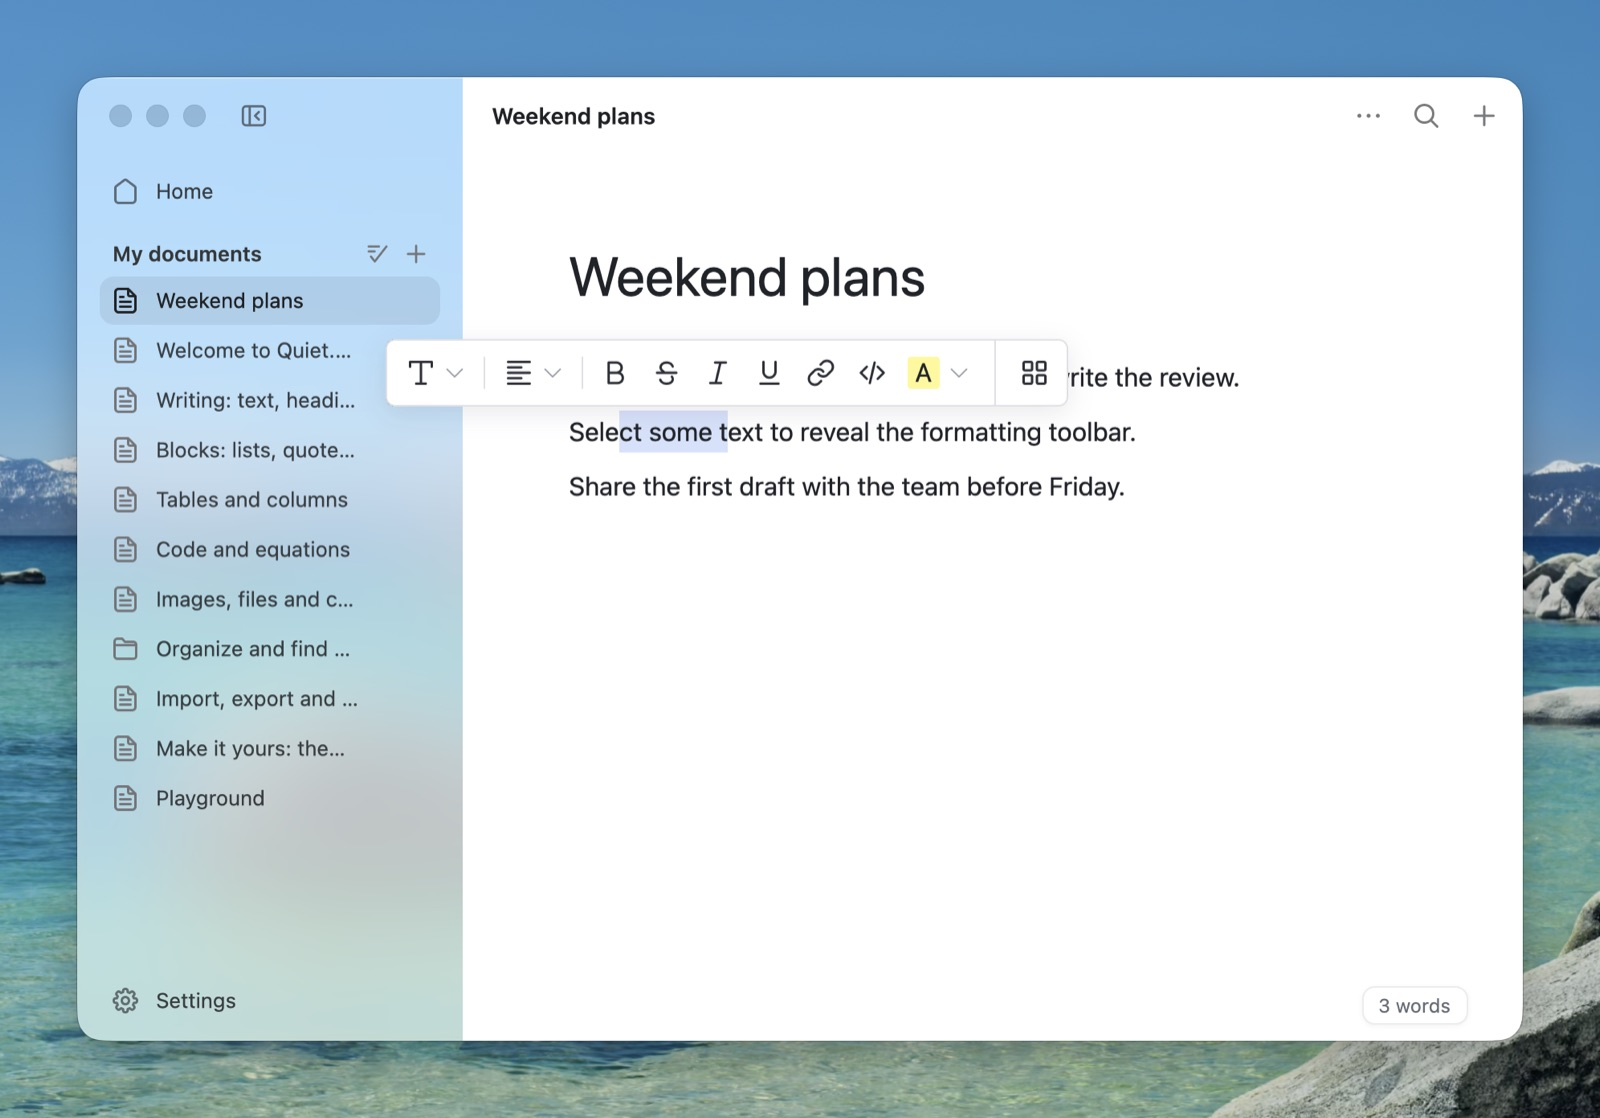
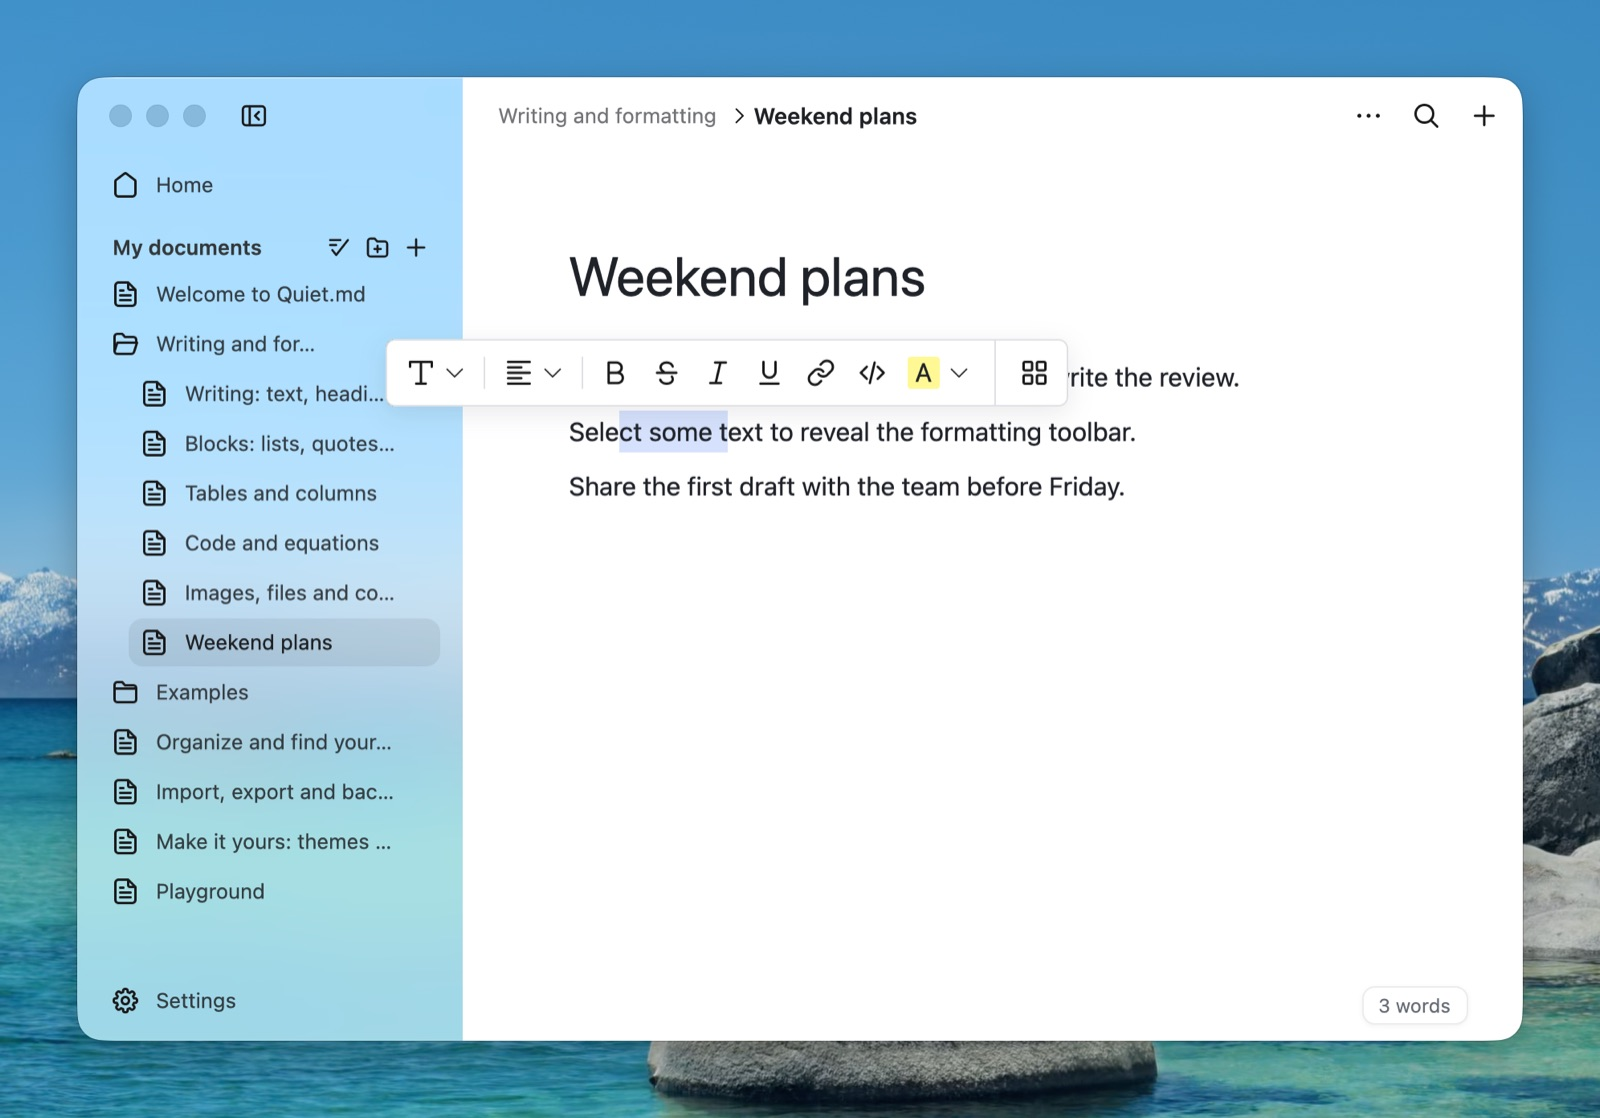
feat(folders): guides for folders, one sibling order, tests updated
- One order everywhere (`Meta::place`): pages never placed by hand first,
  most recently changed first, then the placed ones; ties by id. The
  sidebar, the numbers a drop writes and Home's manual order share it, and
  starting manual order freezes what the sidebar shows instead of moving new
  pages to the end. Home now defaults to manual order.
- Migration numbers each new folder's contents in their old order (the
  page that became the folder first, then its children oldest first), with
  a test.
- Guides: folders replace child pages in Organize, the child-page list
  section is gone from Blocks, and the library is built with two folders
  near the top (Writing and formatting, Examples) in a fixed order at
  FORMAT 2. Screenshots retaken; Windows wording for ⌥.
- Home thumbnails show a child-page list as the open document does (the
  other pages in its folder).
- Tests follow the folder model: the slash menu lost 子页面列表, a newer
  library is refused rather than warned about, and the trash round trip
  uses a folder.

diff --git a/crates/core/src/folders.rs b/crates/core/src/folders.rs
@@ -31,6 +31,15 @@ impl Store {
                 if let Some(folder) = mapping.get(id) { meta.parent = Some(folder.clone()); meta.order = 1; }
                 else if let Some(folder) = meta.parent.as_ref().and_then(|p| mapping.get(p)) { meta.parent = Some(folder.clone()); }
             }
+            // Number each new folder's contents in their old order (the page that
+            // became the folder first, then its children oldest first), so the
+            // tree reads as it did before.
+            for (doc, folder) in &mapping {
+                let mut kids: Vec<String> = self.index.iter().filter(|(_, m)| m.parent.as_ref() == Some(folder)).map(|(k, _)| k.clone()).collect();
+                let old = |k: &String| { let m = &self.index[k]; (k != doc, if m.order > 0 { m.order } else { m.created * 1000 }, k.clone()) };
+                kids.sort_by_key(old);
+                for (i, k) in kids.iter().enumerate() { if let Some(m) = self.index.get_mut(k) { m.order = i as u64 + 1; m.root_order = None; } }
+            }
             if let Err(e) = self.save_index() { self.index = previous; return Err(e); }
         }
         write_atomic(&self.root.join("format.json"), &serde_json::to_vec_pretty(&FormatMarker { format: FORMAT })?)?;
@@ -66,16 +75,16 @@ impl Store {
         let mut groups: HashMap<Option<String>, Vec<String>> = HashMap::new();
         for (id, m) in &self.index { groups.entry(m.parent.clone()).or_default().push(id.clone()); }
         let mut changed = false;
+        // Freeze the order the sidebar shows (`Meta::place`): pages not yet placed
+        // keep their spot at the top instead of dropping to the end.
         for (parent, mut ids) in groups {
-            let rank = |id: &String| { let m = &self.index[id]; if parent.is_none() { m.root_order.unwrap_or(0) } else { m.order } };
-            let offset = if initialized { ids.iter().map(&rank).max().unwrap_or(0) } else { 0 };
-            if initialized { ids.retain(|id| rank(id) == 0); }
-            changed |= !ids.is_empty();
-            ids.sort_by(|a, b| self.index[b].modified.cmp(&self.index[a].modified).then(a.cmp(b)));
+            ids.sort_by(|a, b| (self.index[a].place(), a).cmp(&(self.index[b].place(), b)));
+            if initialized && ids.iter().all(|id| self.index[id].place().0) { continue; }
+            changed = true;
             for (i, id) in ids.iter().enumerate() {
                 let m = self.index.get_mut(id).unwrap();
-                if parent.is_none() { m.root_order = Some(offset + i as u64 + 1); }
-                else { m.order = offset + i as u64 + 1; m.root_order = None; }
+                if parent.is_none() { m.root_order = Some(i as u64 + 1); }
+                else { m.order = i as u64 + 1; m.root_order = None; }
             }
         }
         if !changed && initialized { return Ok(()); }
@@ -94,13 +103,9 @@ impl Store {
             if anchor == id { return Ok(()); }
         }
         let mut siblings: Vec<String> = self.index.iter().filter(|(k, m)| self.index_has(k) && m.parent.as_deref() == parent).map(|(k, _)| k.clone()).collect();
-        // The sidebar's order (`Tree::new`), ties broken by id like there, so the
-        // numbers written here match the order the drop was made in.
-        siblings.sort_by(|ka, kb| {
-            let (a, b) = (&self.index[ka], &self.index[kb]);
-            if parent.is_some() { (a.sibling_key(), ka).cmp(&(b.sibling_key(), kb)) }
-            else { (a.root_order.unwrap_or(0), std::cmp::Reverse(a.modified), ka).cmp(&(b.root_order.unwrap_or(0), std::cmp::Reverse(b.modified), kb)) }
-        });
+        // The sidebar's order (`Meta::place`, ties by id), so the numbers written
+        // here match the order the drop was made in.
+        siblings.sort_by(|ka, kb| (self.index[ka].place(), ka).cmp(&(self.index[kb].place(), kb)));
         siblings.retain(|key| key != id);
         let pos = before.and_then(|key| siblings.iter().position(|x| x == key)).unwrap_or(siblings.len());
         siblings.insert(pos, id.to_string());

diff --git a/crates/core/src/store.rs b/crates/core/src/store.rs
@@ -93,9 +93,13 @@ fn is_zero(n: &u64) -> bool {
 }
 
 impl Meta {
-    /// Sort key among siblings: oldest first, moved pages last.
-    pub fn sibling_key(&self) -> u64 {
-        if self.order > 0 { self.order } else { self.created * 1000 }
+    /// Where a page or folder sits among its siblings: the sidebar's order, the
+    /// numbers a drop writes and Home's manual order all use it. Those never
+    /// placed by hand come first, most recently changed first; then the placed
+    /// ones in their order. Callers break remaining ties by id.
+    pub fn place(&self) -> (bool, u64, std::cmp::Reverse<u64>) {
+        let placed = if self.parent.is_none() { self.root_order.unwrap_or(0) } else { self.order };
+        (placed > 0, placed, std::cmp::Reverse(self.modified))
     }
 }
 
@@ -964,25 +968,61 @@ mod tests {
     }
 
     #[test]
-    fn newer_format_is_reported() {
+    fn pages_with_children_become_folders_in_their_old_order() {
+        // A FORMAT 1 library: 父 holds 子一 (older) and 子二 (newer).
+        let lib = Lib::new("migrate");
+        let mut s = lib.open();
+        let p = s.create_from(&doc("父")).unwrap();
+        let a = s.create_from(&doc("子一")).unwrap();
+        let b = s.create_from(&doc("子二")).unwrap();
+        drop(s);
+        let path = lib.0.join("index.json");
+        let mut index: HashMap<String, Meta> = serde_json::from_slice(&std::fs::read(&path).unwrap()).unwrap();
+        for (k, created) in [(&a, 100), (&b, 200)] {
+            let m = index.get_mut(k).unwrap();
+            m.parent = Some(p.clone());
+            m.created = created;
+            m.order = 0;
+        }
+        std::fs::write(&path, serde_json::to_vec(&index).unwrap()).unwrap();
+        std::fs::write(lib.0.join("format.json"), b"{\"format\": 1}").unwrap();
+
+        let mut s = lib.open();
+        let list = s.list();
+        let folder = list.iter().find(|e| e.meta.folder.as_deref() == Some("父")).expect("父 became a folder");
+        assert!(folder.meta.parent.is_none());
+        let mut inside: Vec<&Entry> = list.iter().filter(|e| e.meta.parent.as_deref() == Some(folder.id.as_str())).collect();
+        inside.sort_by_key(|e| (e.meta.place(), e.id.clone()));
+        let titles: Vec<&str> = inside.iter().map(|e| e.title.as_str()).collect();
+        assert_eq!(titles, ["父", "子一", "子二"], "the page first, then its children oldest first");
+        assert!(lib.0.join("index.before-folders.json").exists());
+        assert!(String::from_utf8(std::fs::read(lib.0.join("format.json")).unwrap()).unwrap().contains(&FORMAT.to_string()));
+    }
+
+    #[test]
+    fn newer_format_is_refused() {
+        // A newer build may have changed what the index means (folders, FORMAT 2):
+        // opening it here could misread and then rewrite it, so it is refused.
         let lib = Lib::new("format");
         drop(lib.open());
         std::fs::write(lib.0.join("format.json"), format!("{{\"format\": {}}}", FORMAT + 1)).unwrap();
-        assert_eq!(lib.open().warnings.len(), 1);
+        let err = Store::open_at(lib.0.clone()).err().expect("a newer library must not open");
+        assert!(err.to_string().contains("更新版本"));
     }
 
     #[test]
     fn trash_round_trip() {
         let lib = Lib::new("trash");
         let mut s = lib.open();
-        let a = s.create_from(&doc("父")).unwrap();
+        // Only folders hold pages: a folder goes to the trash with what is in it.
+        let a = s.create_folder("父", None).unwrap();
         let b = s.create_from(&doc("子")).unwrap();
         s.set_parent(&b, Some(&a)).unwrap();
         s.delete(&b, Some(&a)).unwrap();
         s.delete(&a, None).unwrap();
         assert!(s.list().is_empty());
         let t = s.list_trash();
-        assert_eq!(t.len(), 1, "the child rides along with its parent");
+        assert_eq!(t.len(), 1, "the page rides along with its folder");
         assert_eq!(t[0].title, "父");
         let mut s = lib.open();
         assert!(!s.restore(&a).unwrap());

diff --git a/shared-mock/guides/build.py b/shared-mock/guides/build.py
@@ -17,24 +17,31 @@ from pathlib import Path
 here = Path(__file__).resolve().parent
 out = Path(sys.argv[1]).resolve()
 NS = uuid.UUID("6f7c1e9a-9d0b-4a51-8c7e-2a1d3b4c5e6f")
-# file stem -> (key, parent key, pinned)
+# Folders in the guide library: key -> title. A folder has no file, only an
+# index entry.
+FOLDERS = {"writing-guides": "Writing and formatting", "examples": "Examples"}
+# The top level, in order; every entry gets its place, so the sidebar and
+# Home's manual order (the default) read the same.
+TOP = ["welcome", "writing-guides", "examples", "organize", "data", "personalize", "practice"]
+# file stem -> (key, parent key, pinned); a parent is a key of FOLDERS
 KEYS = {
     "01-welcome": ("welcome", None, False),
-    "02-writing": ("writing", None, False),
-    "03-blocks": ("blocks", None, False),
-    "04-tables": ("tables", None, False),
-    "05-code": ("code", None, False),
-    "06-media": ("media", None, False),
+    "02-writing": ("writing", "writing-guides", False),
+    "03-blocks": ("blocks", "writing-guides", False),
+    "04-tables": ("tables", "writing-guides", False),
+    "05-code": ("code", "writing-guides", False),
+    "06-media": ("media", "writing-guides", False),
     "07-organize": ("organize", None, False),
-    "07a-reading-list": ("reading-list", "organize", False),
-    "07b-weekly": ("weekly", "organize", False),
+    "07a-reading-list": ("reading-list", "examples", False),
+    "07b-weekly": ("weekly", "examples", False),
     "08-data": ("data", None, False),
     "09-personalize": ("personalize", None, False),
     "10-practice": ("practice", None, False),
 }
 ids = {k: str(uuid.uuid5(NS, k)) for k, _, _ in KEYS.values()}
+ids.update({k: str(uuid.uuid5(NS, k)) for k in FOLDERS})
 srcs = {KEYS[p.stem][0]: p.read_text() for p in sorted((here / "src").glob("*.xml"))}
-missing = set(ids) - set(srcs)
+missing = set(ids) - set(srcs) - set(FOLDERS)
 assert not missing, f"no source for {missing}"
 
 def esc(s): return s.replace("&", "&amp;").replace("<", "&lt;").replace(">", "&gt;")
@@ -88,17 +95,28 @@ if out.exists() and any(out.iterdir()):
 (out / "docs").mkdir(parents=True)
 index = {}
 order = list(KEYS.values())
+inside = {}
 for i, (k, parent, pinned) in enumerate(order):
     (out / "docs" / f"{ids[k]}.xml").write_text(fill(srcs[k]))
-    # Reading order: the sidebar lists the most recently modified first, and
-    # children oldest first.
+    # Reading order is written out: TOP places the top level, and a folder's
+    # pages are numbered in file order.
     t = now - 60 * i
     meta = {"created": now - 3600 + i, "modified": t, "pinned": pinned, "opened": t}
     if parent:
+        assert parent in FOLDERS, f"{k}: pages live in folders, not under {parent}"
+        inside[parent] = inside.get(parent, 0) + 1
         meta["parent"] = ids[parent]
+        meta["order"] = inside[parent]
+    else:
+        assert k in TOP, f"{k} is missing from TOP"
     index[ids[k]] = meta
+for k, title in FOLDERS.items():
+    index[ids[k]] = {"folder": title, "created": now - 3600, "modified": now, "pinned": False, "opened": 0}
+assert set(TOP) == {k for k, p, _ in KEYS.values() if not p} | set(FOLDERS), "TOP must list every top-level entry"
+for i, k in enumerate(TOP):
+    index[ids[k]]["root_order"] = i + 1
 (out / "index.json").write_text(json.dumps(index, ensure_ascii=False, indent=2) + "\n")
-(out / "format.json").write_text('{\n  "format": 1\n}')
+(out / "format.json").write_text('{\n  "format": 2\n}')
 shutil.copytree(here / "assets", out / "assets" / "guides")
 (out / "assets" / "guides" / "covers").mkdir()
 for name in sorted(covers):

diff --git a/src/home.rs b/src/home.rs
@@ -329,7 +329,8 @@ impl Default for Home {
             folder_list_scroll: Default::default(),
             grid_scrollbar: Default::default(),
             list_scrollbar: Default::default(),
-            sort: HomeSort::Visited,
+            // Manual: the sidebar's order (`Meta::place`), so both lists read the same.
+            sort: HomeSort::Manual,
             folders_first: false,
             sort_menu: false,
             thumbs: Default::default(),
@@ -445,10 +446,8 @@ impl Workspace {
     fn sorted_entries(&self, mut v: Vec<Entry>) -> Vec<Entry> {
         v.sort_by(|a, b| {
             let order = match self.home.sort {
-                HomeSort::Manual => {
-                    let rank = |e: &Entry| if e.meta.parent.is_none() { e.meta.root_order.unwrap_or(u64::MAX) } else if e.meta.order > 0 { e.meta.order } else { u64::MAX };
-                    rank(a).cmp(&rank(b)).then_with(|| b.meta.modified.cmp(&a.meta.modified))
-                }
+                // The sidebar's order: new pages at the top in both.
+                HomeSort::Manual => (a.meta.place(), &a.id).cmp(&(b.meta.place(), &b.id)),
                 HomeSort::Visited => visited(b).cmp(&visited(a)),
                 HomeSort::Modified => b.meta.modified.cmp(&a.meta.modified),
                 HomeSort::Created => b.meta.created.cmp(&a.meta.created),
@@ -461,7 +460,10 @@ impl Workspace {
 
     fn thumb(&self, e: &Entry) -> Thumb {
         use std::hash::{Hash, Hasher};
-        let children: Vec<&Entry> = self.entries.iter().filter(|p| p.meta.parent.as_deref() == Some(e.id.as_str())).collect();
+        // A child-page list shows the other pages in the document's folder, as in
+        // the open document (`sync_sub_pages`).
+        let tree = crate::tree::Tree::new(&self.entries);
+        let children: Vec<&Entry> = tree.children(e.meta.parent.as_deref()).iter().copied().filter(|p| p.id != e.id).collect();
         let mut stamp = rustc_hash::FxHasher::default();
         e.meta.modified.hash(&mut stamp);
         crate::settings::feishu().hash(&mut stamp);
@@ -572,7 +574,7 @@ impl Workspace {
         let s = self.store.settings();
         self.home.grid = !s.home_list;
         self.home.folders_first = s.home_folders_first;
-        self.home.sort = s.home_sort.as_deref().map(HomeSort::of).unwrap_or(HomeSort::Visited);
+        self.home.sort = s.home_sort.as_deref().map(HomeSort::of).unwrap_or(HomeSort::Manual);
     }
 
     fn save_home(&mut self) {

diff --git a/src/guides.rs b/src/guides.rs
@@ -21,6 +21,7 @@ const WINDOWS_TEXT: &[(&str, &str)] = &[
     ("<h2>Move to another Mac</h2><ol><li>Quit Quiet.md on the old Mac with", "<h2>Move to another computer</h2><ol><li>Quit Quiet.md on the old computer with"),
     ("Copy the complete Quiet.md folder into Documents on the new Mac.", "Copy the complete Quiet.md folder into Documents on the new computer."),
     ("Press a new combination containing Command, Control or Option.", "Press a new combination containing Ctrl or Alt."),
+    ("Hold <code>⌥</code> to do the same for every folder inside.", "Hold <code>Alt</code> to do the same for every folder inside."),
     // The system-wide quick-note shortcut exists on macOS only.
     ("<p>A global shortcut can open a small note window while you are using another app. Write the thought down, then close the window; it is saved with your documents.</p><ul><li>Enable the global quick-note shortcut in Settings › Shortcuts.</li><li>The default is <code>⌥ Space</code>. If another app already uses it, choose another combination, such as <code>⌥ ⇧ Space</code>. Registration failures are shown in settings.</li>",
      "<p>A note window is a small window of its own for writing a thought down. Close it when you are done; the note is saved with your documents.</p><ul>"),

diff --git a/src/tree.rs b/src/tree.rs
@@ -50,13 +50,11 @@ impl<'a> Tree<'a> {
                 roots.push(e);
             }
         }
-        // Ties (never ordered by hand, changed in the same second) fall back to the
-        // id: the list is re-read often (each time the window comes back) and
-        // must come out the same every time.
-        roots.sort_by(|a, b| (a.meta.root_order.unwrap_or(0), std::cmp::Reverse(a.meta.modified), &a.id)
-            .cmp(&(b.meta.root_order.unwrap_or(0), std::cmp::Reverse(b.meta.modified), &b.id)));
+        // `Meta::place`, then the id: the list is re-read often (each time the
+        // window comes back) and must come out the same every time.
+        roots.sort_by(|a, b| (a.meta.place(), &a.id).cmp(&(b.meta.place(), &b.id)));
         for v in kids.values_mut() {
-            v.sort_by(|a, b| (a.meta.sibling_key(), &a.id).cmp(&(b.meta.sibling_key(), &b.id)));
+            v.sort_by(|a, b| (a.meta.place(), &a.id).cmp(&(b.meta.place(), &b.id)));
         }
         Tree { roots, kids }
     }

diff --git a/src/editor/menus.rs b/src/editor/menus.rs
@@ -370,7 +370,8 @@ mod tests {
         assert_eq!(SLASH_ITEMS[r[0]].label, "表格");
         let r = filter_slash("cy");
         assert!(r.iter().all(|i| SLASH_ITEMS[*i].group == 1));
-        assert_eq!(r.len(), 9);
+        // 子页面列表 left the menu with folders (pages no longer hold pages).
+        assert_eq!(r.len(), 8);
         assert!(filter_slash("zzz").is_empty());
         assert_eq!(SLASH_ITEMS[filter_slash("djs")[0]].label, "倒计时");
         let r = filter_slash("list");
